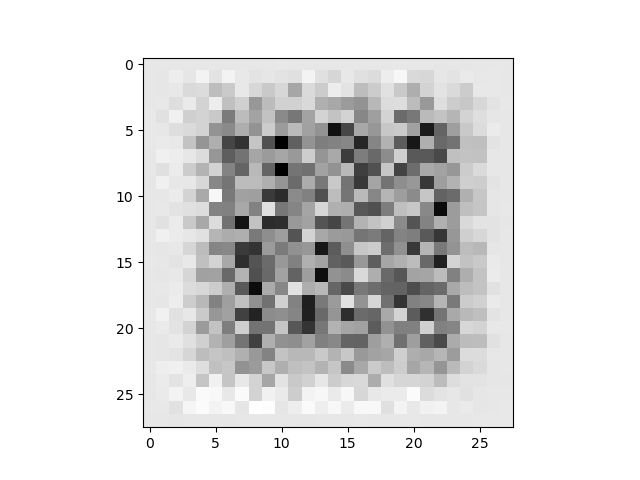
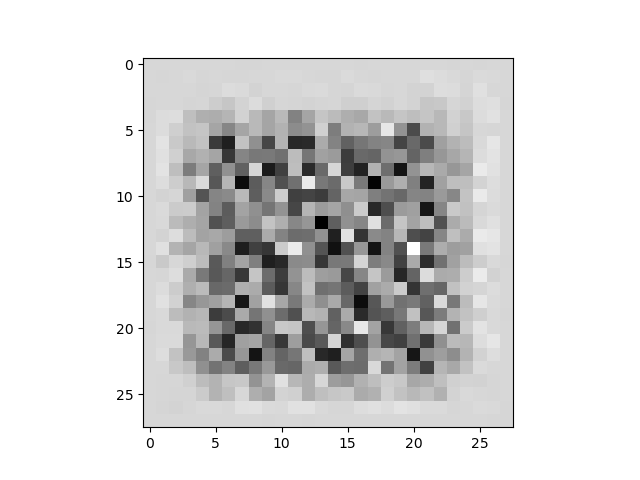
restarted visualization

Changed region(s): [[0.2188, 0.125, 0.7812, 0.875]]

diff --git a/testing.py b/testing.py
@@ -16,7 +16,7 @@ img_width = 28
 img_height = 28
 # Our target layer: we will visualize the filters from this layer.
 # See `model.summary()` for list of layer names, if you want to change this.
-layer_name = "test"
+layer_name = 'Conv2D_1'
 
 def preprocess(array):
     """
@@ -196,15 +196,15 @@ def main():
     input = layers.Input(shape=(28, 28, 1))
 
     # Encoder
-    x = layers.Conv2D(32, (3, 3), activation="relu", padding="same")(input)
+    x = layers.Conv2D(32, (3, 3), activation="relu", padding="same", name='Conv2D_1')(input)
     x = layers.MaxPooling2D((2, 2), padding="same")(x)
-    x = layers.Conv2D(32, (3, 3), activation="relu", padding="same", name='test')(x)
+    x = layers.Conv2D(32, (3, 3), activation="relu", padding="same", name='Conv2D_2')(x)
     x = layers.MaxPooling2D((2, 2), padding="same")(x)
 
     # Decoder
-    x = layers.Conv2DTranspose(32, (3, 3), strides=2, activation="relu", padding="same")(x)
-    x = layers.Conv2DTranspose(32, (3, 3), strides=2, activation="relu", padding="same")(x)
-    x = layers.Conv2D(1, (3, 3), activation="sigmoid", padding="same")(x)
+    x = layers.Conv2DTranspose(32, (3, 3), strides=2, activation="relu", padding="same", name='Conv2DT_1')(x)
+    x = layers.Conv2DTranspose(32, (3, 3), strides=2, activation="relu", padding="same", name='Conv2DT_2')(x)
+    x = layers.Conv2D(1, (3, 3), activation="sigmoid", padding="same", name='Conv2D_out')(x)
 
     # Autoencoder
     autoencoder = Model(input, x)
@@ -225,55 +225,57 @@ def main():
     display1(test_data, predictions)
 
     
+
+    filters, biases = autoencoder.get_layer(name=layer_name).get_weights()
+    # normalize filter values to 0-1 so we can visualize them
+    f_min, f_max = filters.min(), filters.max()
+    filters = (filters - f_min) / (f_max - f_min)
+    # plot first few filters
+    n_filters, ix = 32, 1
+    for i in range(n_filters):
+        # get the filter
+        f = filters[:, :, :, i]
+        # plot each channel separately
+        for j in range(3):
+            # specify subplot and turn of axis
+            ax = plt.subplot(n_filters, 3, ix)
+            ax.set_xticks([])
+            ax.set_yticks([])
+            # plot filter channel in grayscale
+            plt.imshow(f[:, :, j], cmap='gray')
+            ix += 1
+    # show the figure
+    plt.show()
+
+
     layer = autoencoder.get_layer(name=layer_name)
     feature_extractor = Model(inputs=autoencoder.inputs, outputs=layer.output)
 
-    # Compute image inputs that maximize per-filter activations
-    # for the first 32 filters of our target layer
-    all_imgs = []
-    for filter_index in range(32):
-        print("Processing filter %d" % (filter_index,))
-        loss, img = visualize_filter(filter_index, feature_extractor)
-        #print(img)
+    from numpy import expand_dims
 
-        w, h = 28, 28
-        data = np.zeros((h, w, 1), dtype=np.uint8)
-        data[0:29, 0:29] = img
-        plt.imshow(data, interpolation='nearest')
-        plt.savefig('fig' + str(len(all_imgs)) + '.png')
+    model = Model(inputs=autoencoder.inputs, outputs=autoencoder.get_layer(name=layer_name).output)
+    # load the image with the required shape
+    img = test_data[0]
+    # expand dimensions so that it represents a single 'sample'
+    img = expand_dims(img, axis=0)
+    # get feature map for first hidden layerd
+    feature_maps = autoencoder(img, training=False)
+    # plot the output from each block
+    square = 8
+    for fmap in feature_maps:
+        print(fmap)
+        # plot all 64 maps in an 8x8 squares
+        ix = 1
+        for _ in range(square):
+            for _ in range(square):
+                # specify subplot and turn of axis
+                ax = plt.subplot(square, square, ix)
+                ax.set_xticks([])
+                ax.set_yticks([])
+                # plot filter channel in grayscale
+                plt.imshow(fmap[0, :, :, ix-1], cmap='gray')
+                ix += 1
+        # show the figure
         plt.show()
-
-        all_imgs.append(img)
-
-    """
-    # Build a black picture with enough space for
-    # our 3 x 3 filters of size 128 x 128, with a 5px margin in between
-    margin = 6
-    n = 3
-    cropped_width = img_width - 3 * 2
-    cropped_height = img_height - 3 * 2
-    width = n * cropped_width + (n - 1) * margin
-    height = n * cropped_height + (n - 1) * margin
-    print(width, height)
-    stitched_filters = np.zeros((width, height, 1))
-
-    # Fill the picture with our saved filters
-    for i in range(n):
-        for j in range(n):
-            img = all_imgs[i * n + j]
-            stitched_filters[
-                (cropped_width + margin) * i : (cropped_width + margin) * i + cropped_width,
-                (cropped_height + margin) * j : (cropped_height + margin) * j
-                + cropped_height,
-                :,
-            ] = img
-    keras.preprocessing.image.save_img("stiched_filters.png", stitched_filters)
-
-    display(Image("stiched_filters.png"))
-    """
-    
-
-
-
 
 main()
